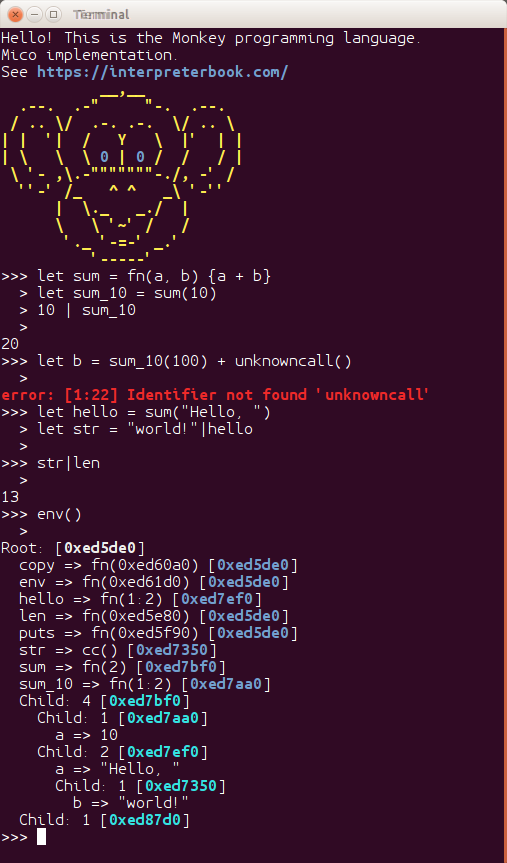
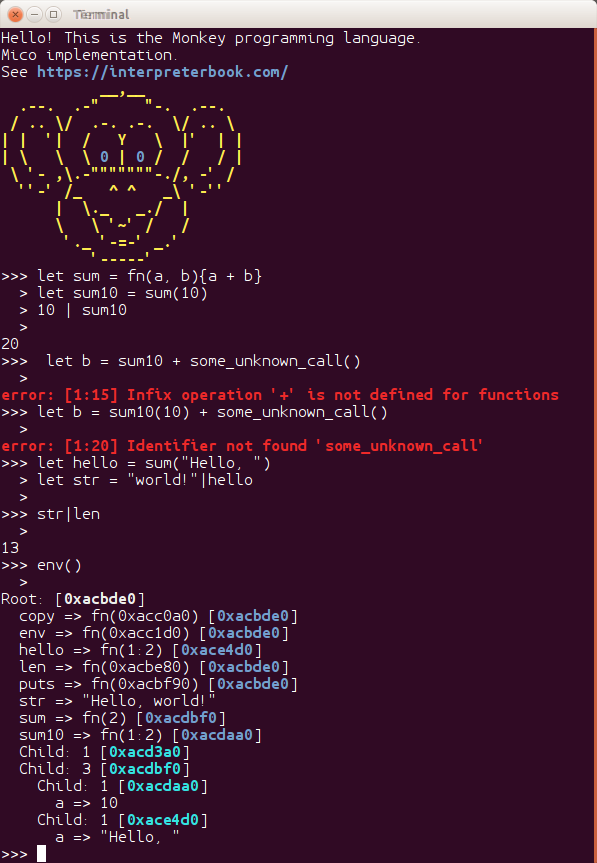
repl

Changed region(s): [[0.0, 0.0, 0.9467, 1.0], [0.503, 0.3013, 0.5325, 0.3314]]

diff --git a/include/mico/eval/tree_walking.h b/include/mico/eval/tree_walking.h
@@ -416,24 +416,35 @@ namespace mico { namespace eval {
             using array_operation = OP<objects::type::ARRAY>;
             using func_operation  = OP<objects::type::FUNCTION>;
 
+            objects::sptr res;
             switch (left->get_type( )) {
             case objects::type::INTEGER:
-                return int_operation::eval_infix( inf, left, inf_call, env);
+                res = int_operation::eval_infix( inf, left, inf_call, env);
+                break;
             case objects::type::FLOAT:
-                return float_operation::eval_infix( inf, left, inf_call, env);
+                res = float_operation::eval_infix( inf, left, inf_call, env);
+                break;
             case objects::type::BOOLEAN:
-                return bool_operation::eval_infix( inf, left, inf_call, env);
+                res = bool_operation::eval_infix( inf, left, inf_call, env);
+                break;
             case objects::type::STRING:
-                return str_operation::eval_infix( inf, left, inf_call, env);
+                res = str_operation::eval_infix( inf, left, inf_call, env);
+                break;
             case objects::type::TABLE:
-                return table_operation::eval_infix( inf, left, inf_call, env);
+                res = table_operation::eval_infix( inf, left, inf_call, env);
+                break;
             case objects::type::ARRAY:
-                return array_operation::eval_infix( inf, left, inf_call, env);
+                res = array_operation::eval_infix( inf, left, inf_call, env);
+                break;
             case objects::type::FUNCTION:
             case objects::type::BUILTIN:
-                return func_operation::eval_infix( inf, left, inf_call, env);
+                res = func_operation::eval_infix( inf, left, inf_call, env);
+                break;
             default:
                 break;
+            }
+            if( res ) {
+                return eval_tail( res );
             }
 
             return error_operation_notfound( inf->token( ), inf );
@@ -512,7 +523,6 @@ namespace mico { namespace eval {
                 } else if( call_type == objects::type::BUILTIN ) {
                     auto fun = objects::cast_builtin(call->value( ).get( ));
                     obj = fun->call( call->params( ), call->env( ) );
-
                 }
                 if( is_return( obj ) ) {
                     return obj;
@@ -557,7 +567,6 @@ namespace mico { namespace eval {
 
                 auto next = eval_impl( stmt.get( ), env );
                 last = next;
-                //last = eval_tail(next);
                 if( is_return( next ) || is_fail( next ) ) {
                     return last;
                 }

diff --git a/include/mico/eval/operations/function.h b/include/mico/eval/operations/function.h
@@ -24,14 +24,18 @@ namespace mico { namespace eval { namespace operations {
         objects::sptr eval_infix( infix *inf, objects::sptr obj,
                                   eval_call ev, environment::sptr env  )
         {
-            common::reference<objects::type::STRING> ref(obj);
-            obj = ref.shared_unref( );
+            obj = objects::reference::unref( obj );
 
-            objects::sptr right = ev( inf->right( ).get( ) );
-            if( right->get_type( ) == objects::type::FAILURE ) {
-                return right;
+            if( inf->token( ) == tokens::type::BIT_OR ) {
+                objects::sptr right = ev( inf->right( ).get( ) );
+                if( right->get_type( ) == objects::type::FAILURE ) {
+                    return right;
+                }
+                return common::common_infix( inf, obj, right, env );
             }
-            return common::common_infix( inf, obj, right, env );
+            return error_type::make(inf->pos( ), "Infix operation '",
+                                    inf->token( ), "' is not defined for "
+                                                   "functions");
         }
     };
 
